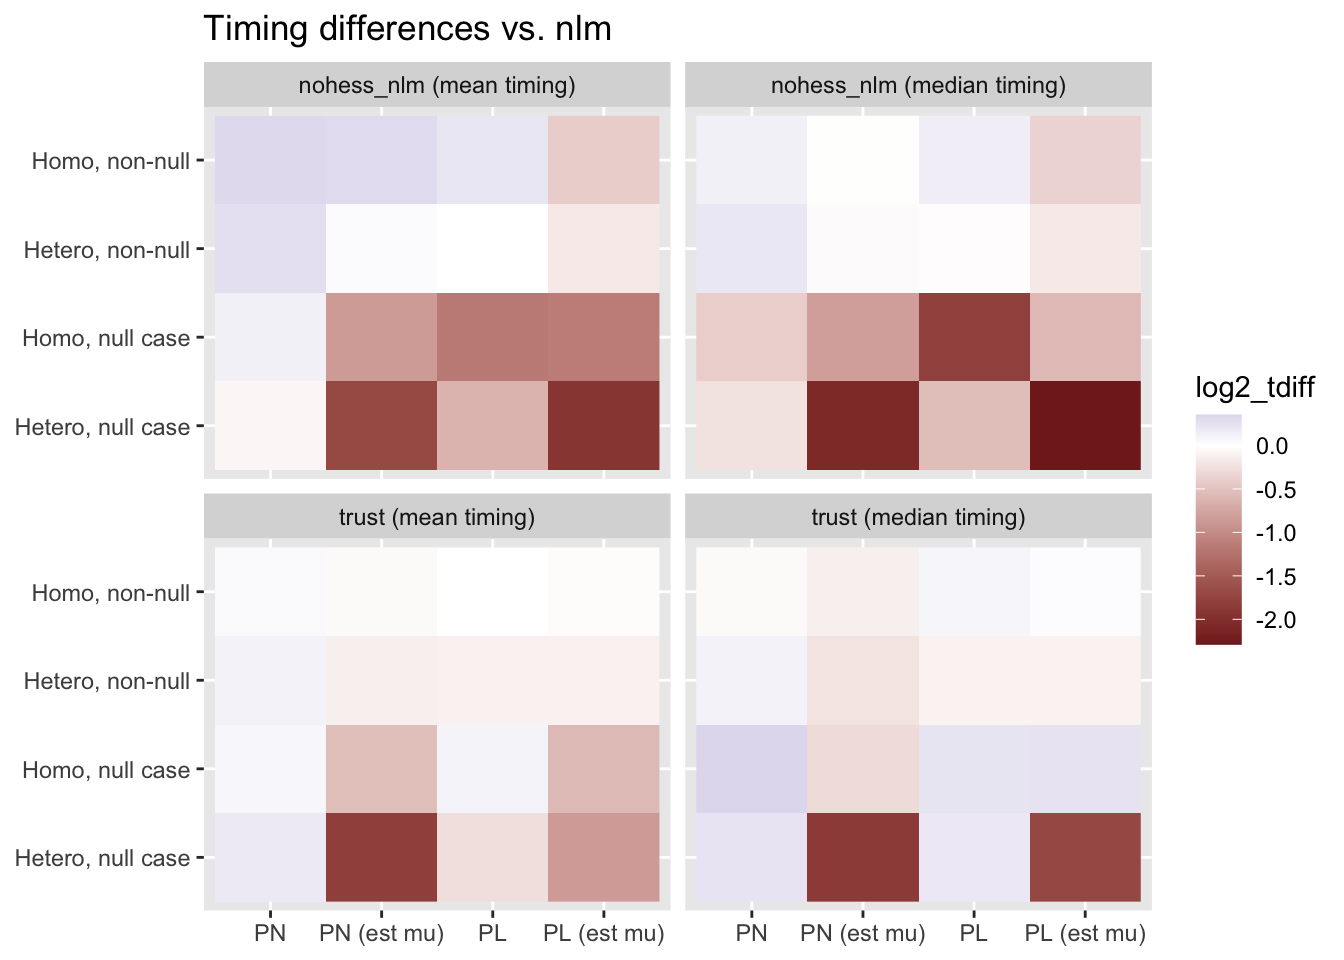
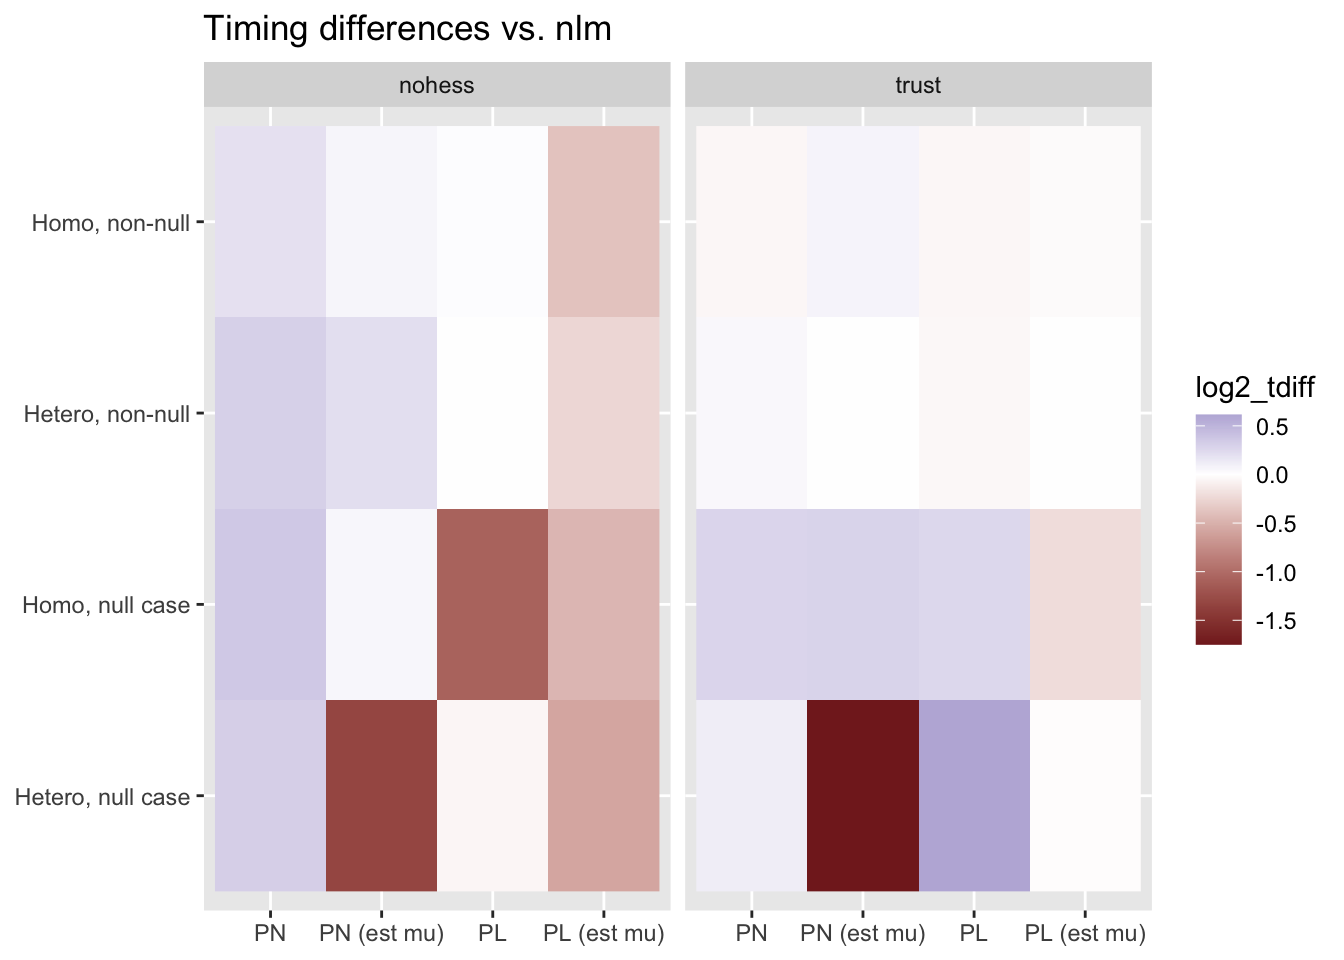
Build site.

diff --git a/docs/optmethods.html b/docs/optmethods.html
@@ -364,7 +364,7 @@ div.section {
 <div class="tab-content">
 <div id="summary" class="tab-pane fade in active">
 <p>
-<strong>Last updated:</strong> 2021-01-15
+<strong>Last updated:</strong> 2021-01-19
 </p>
 <p>
 <strong>Checks:</strong> <span class="glyphicon glyphicon-ok text-success" aria-hidden="true"></span> 6 <span class="glyphicon glyphicon-exclamation-sign text-danger" aria-hidden="true"></span> 0
@@ -443,10 +443,10 @@ This reproducible <a href="http://rmarkdown.rstudio.com">R Markdown</a> analysis
 <div class="panel panel-default">
 <div class="panel-heading">
 <p class="panel-title">
-<a data-toggle="collapse" data-parent="#workflowr-checks" href="#strongRepositoryversionstrongahrefhttpsgithubcomwillwerscheidebnmpapertreedb21fe6381d857d215fa60ada37bbe5ccc1d19bftargetblankdb21fe6a"> <span class="glyphicon glyphicon-ok text-success" aria-hidden="true"></span> <strong>Repository version:</strong> <a href="https://github.com/willwerscheid/ebnm-paper/tree/db21fe6381d857d215fa60ada37bbe5ccc1d19bf" target="_blank">db21fe6</a> </a>
+<a data-toggle="collapse" data-parent="#workflowr-checks" href="#strongRepositoryversionstrongahrefhttpsgithubcomwillwerscheidebnmpapertree69733a1ec1373fd9deb1a040cfd8e9858dc2ed33targetblank69733a1a"> <span class="glyphicon glyphicon-ok text-success" aria-hidden="true"></span> <strong>Repository version:</strong> <a href="https://github.com/willwerscheid/ebnm-paper/tree/69733a1ec1373fd9deb1a040cfd8e9858dc2ed33" target="_blank">69733a1</a> </a>
 </p>
 </div>
[2 lines of base64/hex data omitted]
 <div class="panel-body">
 <p>
 Great! You are using Git for version control. Tracking code development and connecting the code version to the results is critical for reproducibility. The version displayed above was the version of the Git repository at the time these results were generated. <br><br> Note that you need to be careful to ensure that all relevant files for the analysis have been committed to Git prior to generating the results (you can use <code>wflow_publish</code> or <code>wflow_git_commit</code>). workflowr only checks the R Markdown file, but you know if there are other scripts or data files that it depends on. Below is the status of the Git repository when the results were generated:
@@ -457,11 +457,10 @@ Ignored files:
     Ignored:    .Rproj.user/
 
 Untracked files:
-    Untracked:  analysis/ebayesthresh.Rmd
-    Untracked:  docs/figure/ebayesthresh.Rmd/
     Untracked:  sims.R
 
 Unstaged changes:
+    Modified:   analysis/ebayesthresh.Rmd
     Modified:   analysis/optmethods2.Rmd
 
 </code></pre>
@@ -501,6 +500,40 @@ Message
 </tr>
 </thead>
 <tbody>
+<tr>
+<td>
+Rmd
+</td>
+<td>
+<a href="https://github.com/willwerscheid/ebnm-paper/blob/69733a1ec1373fd9deb1a040cfd8e9858dc2ed33/analysis/optmethods.Rmd" target="_blank">69733a1</a>
+</td>
+<td>
+Jason Willwerscheid
+</td>
+<td>
+2021-01-19
+</td>
+<td>
+wflow_publish(“analysis/optmethods.Rmd”)
+</td>
+</tr>
+<tr>
+<td>
+html
+</td>
+<td>
+<a href="https://rawcdn.githack.com/willwerscheid/ebnm-paper/27cdc95ed2a60a0f8fb398fcd3c11f1f7aa81f04/docs/optmethods.html" target="_blank">27cdc95</a>
+</td>
+<td>
+Jason Willwerscheid
+</td>
+<td>
+2021-01-15
+</td>
+<td>
+Build site.
+</td>
+</tr>
 <tr>
 <td>
 Rmd
@@ -668,12 +701,14 @@ wflow_publish(“analysis/optmethods.Rmd”)
 <li>Standard errors can be identical or different</li>
 <li>The mode can be estimated or not</li>
 </ul>
-<p>I use <code>nlm</code> as the baseline and show timing differences for <code>nohess_nlm</code> and <code>trust</code>. For example, <code>log2_tdiff = 1</code> means that <code>nlm</code> is faster by a factor of 2. Thus blue squares indicate cases where <code>nlm</code> is faster and red squares indicate cases where a competing method is faster. I use <code>microbenchmark</code> with differently simulated data for each iteration, and I give comparisons using both mean and median timings.</p>
+<p>I use <code>nlm</code> as the baseline and show timing differences for <code>nohess_nlm</code> and <code>trust</code>. For example, <code>log2_tdiff = 1</code> means that <code>nlm</code> is faster by a factor of 2. Thus blue squares indicate cases where <code>nlm</code> is faster and red squares indicate cases where a competing method is faster.</p>
 <pre class="r"><code>suppressMessages(library(tidyverse))
 library(microbenchmark)
 library(ebnm)
 
-one_test &lt;- function(n, pn, null_case, homosked, est_mu, optmethod) {
+one_sim &lt;- function(n, pn, null_case, homosked, est_mu, seed) {
+  set.seed(seed)
+  
   pi0 &lt;- rbeta(1, shape1 = 10, shape2 = 2)
   scale &lt;- rgamma(1, shape = 4, rate = 1)
   
@@ -702,6 +737,14 @@ one_test &lt;- function(n, pn, null_case, homosked, est_mu, optmethod) {
   
   x &lt;- theta + rnorm(n, sd = s)
   
+  return(list(x = x, s = s))
+}
+
+one_mb &lt;- function(n, pn, null_case, homosked, est_mu, mb_times, seed) {
+  dat &lt;- one_sim(n, pn, null_case, homosked, est_mu, seed)
+  x &lt;- dat$x
+  s &lt;- dat$s
+
   if (pn) {
     ebnm_fn &lt;- ebnm_point_normal
   } else {
@@ -714,103 +757,112 @@ one_test &lt;- function(n, pn, null_case, homosked, est_mu, optmethod) {
     ebnm_mode &lt;- 0
   }
   
-  
-  if (optmethod == &quot;nlm&quot;) {
-    res &lt;- do.call(ebnm_fn, 
-                   list(x = x, s = s, mode = ebnm_mode, optmethod = &quot;nlm&quot;, 
-                        control = list(gradtol = sqrt(.Machine$double.eps), stepmax = 5)))
-  } else if (optmethod == &quot;nohess_nlm&quot;) {
-    res &lt;- do.call(ebnm_fn, 
-                   list(x = x, s = s, mode = ebnm_mode, optmethod = &quot;nohess_nlm&quot;, 
-                        control = list(gradtol = sqrt(.Machine$double.eps), stepmax = 5)))
-  } else if (optmethod == &quot;trust&quot;) {
-    res &lt;- do.call(ebnm_fn, 
-                   list(x = x, s = s, mode = ebnm_mode, optmethod = &quot;trust&quot;,
-                        control = list(fterm = sqrt(.Machine$double.eps), rmax = 5)))
-  } else {
-    stop(&quot;Invalid optmethod.&quot;)
-  }
-
-  return(res)
-}
-
-one_mb &lt;- function(n, pn, null_case, homosked, est_mu, mb_times) {
-  res &lt;- microbenchmark(
-    one_test(n, pn, null_case, homosked, est_mu, optmethod = &quot;nlm&quot;),
-    one_test(n, pn, null_case, homosked, est_mu, optmethod = &quot;nohess_nlm&quot;),
-    one_test(n, pn, null_case, homosked, est_mu, optmethod = &quot;trust&quot;),
+  mb_res &lt;- microbenchmark(
+    nlm_res &lt;- do.call(ebnm_fn, 
+                       list(x = x, s = s, mode = ebnm_mode, optmethod = &quot;nlm&quot;, 
+                            control = list(gradtol = sqrt(.Machine$double.eps)))),
+    nohess_res &lt;- do.call(ebnm_fn, 
+                          list(x = x, s = s, mode = ebnm_mode, optmethod = &quot;nohess_nlm&quot;, 
+                               control = list(gradtol = sqrt(.Machine$double.eps)))),
+    trust_res &lt;- do.call(ebnm_fn, 
+                         list(x = x, s = s, mode = ebnm_mode, optmethod = &quot;trust&quot;,
+                              control = list(fterm = sqrt(.Machine$double.eps)))),
     times = mb_times
   )
+  mb_res &lt;- summary(mb_res)
+  
+  res &lt;- list()
+  res$nohess_mean_tdiff &lt;- mb_res$mean[2] / mb_res$mean[1]
+  res$nohess_median_tdiff &lt;- mb_res$median[2] / mb_res$median[1]
+  res$trust_mean_tdiff &lt;- mb_res$mean[3] / mb_res$mean[1]
+  res$trust_median_tdiff &lt;- mb_res$median[3] / mb_res$median[1]
   
   return(res)
 }
 
-one_n &lt;- function(n, mb_times) {
-  optmethods &lt;- c(&quot;nlm&quot;, &quot;nohess_nlm&quot;, &quot;trust&quot;)
-  
+one_n &lt;- function(n, mb_times, seeds) {
   all_res &lt;- tibble()
   
-  for (pn in c(TRUE, FALSE)) {
-    for (null_case in c(TRUE, FALSE)) {
-      for (homosked in c(TRUE, FALSE)) {
-        for (est_mu in c(TRUE, FALSE)) {
-          mb_res &lt;- summary(one_mb(n, pn, null_case, homosked, est_mu, mb_times), 
-                            unit = &quot;s&quot;)
-          
-          means &lt;- tibble(n = n, pn = pn, null_case = null_case, 
-                          homosked = homosked, est_mu = est_mu, sumstat = &quot;mean&quot;, 
-                          optmethod = optmethods, t = mb_res$mean)
-          medians &lt;- tibble(n = n, pn = pn, null_case = null_case, 
-                            homosked = homosked, est_mu = est_mu, sumstat = &quot;median&quot;, 
-                            optmethod = optmethods, t = mb_res$median)
-          
-          all_res &lt;- all_res %&gt;%
-            bind_rows(means) %&gt;%
-            bind_rows(medians)
+  for (seed in seeds) {
+    for (pn in c(TRUE, FALSE)) {
+      for (null_case in c(TRUE, FALSE)) {
+        for (homosked in c(TRUE, FALSE)) {
+          for (est_mu in c(TRUE, FALSE)) {
+            mb_res &lt;- one_mb(n, pn, null_case, homosked, est_mu, mb_times, seed)
+            
+            all_res &lt;- all_res %&gt;%
+              bind_rows(tibble(seed = seed, n = n, pn = pn, null_case = null_case, 
+                               homosked = homosked, est_mu = est_mu,
+                               optmethod = &quot;nohess&quot;, 
+                               mean_tdiff = mb_res$nohess_mean_tdiff, 
+                               median_tdiff = mb_res$nohess_median_tdiff)) %&gt;%
+              bind_rows(tibble(seed = seed, n = n, pn = pn, null_case = null_case, 
+                               homosked = homosked, est_mu = est_mu,
+                               optmethod = &quot;trust&quot;, 
+                               mean_tdiff = mb_res$trust_mean_tdiff, 
+                               median_tdiff = mb_res$trust_median_tdiff))
+          }
         }
       }
     }
   }
-  
-  all_res &lt;- all_res %&gt;%
-    group_by(n, pn, null_case, homosked, est_mu, sumstat) %&gt;%
-    summarize(trust = max(ifelse(optmethod == &quot;trust&quot;, t, 0)) /
-                max(ifelse(optmethod == &quot;nlm&quot;, t, 0)),
-              nohess_nlm = max(ifelse(optmethod == &quot;nohess_nlm&quot;, t, 0)) /
-                max(ifelse(optmethod == &quot;nlm&quot;, t, 0)),
-              .groups = &#39;drop&#39;)
-  
-  all_res &lt;- all_res %&gt;%
-    gather(&quot;comparison_method&quot;, &quot;tdiff&quot;, trust, nohess_nlm)
-  
+
   return(all_res)
 }
 
 plot_one_n &lt;- function(res) {
-  res &lt;- res %&gt;%
+  df &lt;- res %&gt;%
+    group_by(n, pn, null_case, homosked, est_mu, optmethod) %&gt;%
+    summarize(log2_tdiff = log2(mean(mean_tdiff)), .groups = &#39;drop&#39;) %&gt;%
     mutate(x = factor(paste0(ifelse(pn, &quot;PN&quot;, &quot;PL&quot;), ifelse(est_mu, &quot; (est mu)&quot;, &quot;&quot;))),
            y = factor(paste0(ifelse(homosked, &quot;Homo, &quot;, &quot;Hetero, &quot;),
-                             ifelse(null_case, &quot;null case&quot;, &quot;non-null&quot;))),
-           facet = paste0(comparison_method, &quot; (&quot;, sumstat, &quot; timing)&quot;)) %&gt;%
+                             ifelse(null_case, &quot;null case&quot;, &quot;non-null&quot;)))) %&gt;%
     mutate(x = fct_relevel(x, &quot;PN&quot;, &quot;PN (est mu)&quot;, &quot;PL&quot;, &quot;PL (est mu)&quot;),
            y = fct_relevel(y, &quot;Hetero, null case&quot;, &quot;Homo, null case&quot;, 
-                           &quot;Hetero, non-null&quot;, &quot;Homo, non-null&quot;)) %&gt;%
-    mutate(log2_tdiff = log2(tdiff))
+                           &quot;Hetero, non-null&quot;, &quot;Homo, non-null&quot;))
   
-  plt &lt;- ggplot(res, aes(x = x, y = y)) + 
+  plt &lt;- ggplot(df, aes(x = x, y = y)) + 
     geom_raster(aes(fill = log2_tdiff)) +
     scale_fill_gradient2(midpoint = 0) +
     labs(x = NULL, y = NULL) +
-    facet_wrap(~facet) +
+    facet_wrap(~optmethod) +
     ggtitle(&quot;Timing differences vs. nlm&quot;)
   
   return(plt)
 }
 
-set.seed(666)</code></pre>
+# one_plot &lt;- function(res, plot_pn, plot_est_mu) {
+#   df &lt;- res %&gt;%
+#     filter(pn == plot_pn, est_mu == plot_est_mu)
+#   
+#   df &lt;- df %&gt;%
+#     mutate(log2_tdiff = log2(mean_tdiff)) %&gt;%
+#     mutate(x = paste0(ifelse(null_case, &quot;null&quot;, &quot;nonnull&quot;), &quot;, &quot;, 
+#                       ifelse(homosked, &quot;homo&quot;, &quot;het&quot;))) %&gt;%
+#     mutate(x = fct_relevel(x, &quot;null, homo&quot;, &quot;null, het&quot;, &quot;nonnull, homo&quot;, &quot;nonnull, het&quot;))
+# 
+#   plot(ggplot(df, aes(x = x, y = log2_tdiff)) +
+#          geom_boxplot() + 
+#          geom_jitter(width = 0.3) +
+#          labs(x = NULL, y = NULL) +
+#          geom_hline(aes(yintercept = 0), linetype = &quot;dashed&quot;) + 
+#          ggtitle(paste0(&quot;log2 difference in timing vs. nlm: &quot;,
+#                         ifelse(plot_pn, &quot;point-normal&quot;, &quot;point-Laplace&quot;), &quot;, &quot;,
+#                         ifelse(plot_est_mu, &quot;estimate mu&quot;, &quot;fix mu&quot;))) +
+#          facet_wrap(~optmethod))
+# }
+# 
+# plot_one_n &lt;- function(res) {
+#   for (pn in c(TRUE, FALSE)) {
+#     for (est_mu in c(FALSE, TRUE)) {
+#       one_plot(res, pn, est_mu)
+#     }
+#   }
+# }</code></pre>
 <div id="n-1000" class="section level2">
 <h2><span class="math inline">\(n = 1000\)</span></h2>
-<pre class="r"><code>plot_one_n(one_n(1000, mb_times = 100L))</code></pre>
+<pre class="r"><code>res1000 &lt;- one_n(1000, mb_times = 20L, seeds = 1:20)
+plot_one_n(res1000)</code></pre>
 <p><img src="figure/optmethods.Rmd/n1000-1.png" width="672" style="display: block; margin: auto;" /></p>
 <p>
 <button type="button" class="btn btn-default btn-xs btn-workflowr btn-workflowr-fig" data-toggle="collapse" data-target="#fig-n1000-1">
@@ -834,6 +886,17 @@ Date
 </tr>
 </thead>
 <tbody>
+<tr>
+<td>
+<a href="https://github.com/willwerscheid/ebnm-paper/blob/27cdc95ed2a60a0f8fb398fcd3c11f1f7aa81f04/docs/figure/optmethods.Rmd/n1000-1.png" target="_blank">27cdc95</a>
+</td>
+<td>
+Jason Willwerscheid
+</td>
+<td>
+2021-01-15
+</td>
+</tr>
 <tr>
 <td>
 <a href="https://github.com/willwerscheid/ebnm-paper/blob/b1ae432faf37ca0174ea03cd06f75a2c951b550b/docs/figure/optmethods.Rmd/n1000-1.png" target="_blank">b1ae432</a>
@@ -885,7 +948,8 @@ Jason Willwerscheid
 </div>
 <div id="n-10000" class="section level2">
 <h2><span class="math inline">\(n = 10000\)</span></h2>
-<pre class="r"><code>plot_one_n(one_n(10000, mb_times = 100L))</code></pre>
+<pre class="r"><code>res10000 &lt;- one_n(10000, mb_times = 10L, seeds = 1:20)
+plot_one_n(res10000)</code></pre>
 <p><img src="figure/optmethods.Rmd/n10000-1.png" width="672" style="display: block; margin: auto;" /></p>
 <p>
 <button type="button" class="btn btn-default btn-xs btn-workflowr btn-workflowr-fig" data-toggle="collapse" data-target="#fig-n10000-1">
@@ -909,6 +973,17 @@ Date
 </tr>
 </thead>
 <tbody>
+<tr>
+<td>
+<a href="https://github.com/willwerscheid/ebnm-paper/blob/27cdc95ed2a60a0f8fb398fcd3c11f1f7aa81f04/docs/figure/optmethods.Rmd/n10000-1.png" target="_blank">27cdc95</a>
+</td>
+<td>
+Jason Willwerscheid
+</td>
+<td>
+2021-01-15
+</td>
+</tr>
 <tr>
 <td>
 <a href="https://github.com/willwerscheid/ebnm-paper/blob/b1ae432faf37ca0174ea03cd06f75a2c951b550b/docs/figure/optmethods.Rmd/n10000-1.png" target="_blank">b1ae432</a>
@@ -960,7 +1035,8 @@ Jason Willwerscheid
 </div>
 <div id="n-100000" class="section level2">
 <h2><span class="math inline">\(n = 100000\)</span></h2>
-<pre class="r"><code>plot_one_n(one_n(100000, mb_times = 50L))</code></pre>
+<pre class="r"><code>res100000 &lt;- one_n(100000, mb_times = 5L, seeds = 1:20)
+plot_one_n(res100000)</code></pre>
 <p><img src="figure/optmethods.Rmd/n100000-1.png" width="672" style="display: block; margin: auto;" /></p>
 <p>
 <button type="button" class="btn btn-default btn-xs btn-workflowr btn-workflowr-fig" data-toggle="collapse" data-target="#fig-n100000-1">
@@ -984,6 +1060,17 @@ Date
 </tr>
 </thead>
 <tbody>
+<tr>
+<td>
+<a href="https://github.com/willwerscheid/ebnm-paper/blob/27cdc95ed2a60a0f8fb398fcd3c11f1f7aa81f04/docs/figure/optmethods.Rmd/n100000-1.png" target="_blank">27cdc95</a>
+</td>
+<td>
+Jason Willwerscheid
+</td>
+<td>
+2021-01-15
+</td>
+</tr>
 <tr>
 <td>
 <a href="https://github.com/willwerscheid/ebnm-paper/blob/b1ae432faf37ca0174ea03cd06f75a2c951b550b/docs/figure/optmethods.Rmd/n100000-1.png" target="_blank">b1ae432</a>
@@ -1055,9 +1142,9 @@ Jason Willwerscheid
 #&gt; [1] stats     graphics  grDevices utils     datasets  methods   base     
 #&gt; 
 #&gt; other attached packages:
-#&gt;  [1] ebnm_0.1-31          microbenchmark_1.4-7 forcats_0.4.0        stringr_1.4.0       
+#&gt;  [1] ebnm_0.1-32          microbenchmark_1.4-7 forcats_0.4.0        stringr_1.4.0       
 #&gt;  [5] dplyr_1.0.2          purrr_0.3.4          readr_1.3.1          tidyr_1.1.2         
-#&gt;  [9] tibble_3.0.4         ggplot2_3.3.3        tidyverse_1.3.0     
+#&gt;  [9] tibble_3.0.4         ggplot2_3.3.3        tidyverse_1.3.0      workflowr_1.2.0     
 #&gt; 
 #&gt; loaded via a namespace (and not attached):
 #&gt;  [1] Rcpp_1.0.4.6      lubridate_1.7.4   invgamma_1.1      lattice_0.20-38   assertthat_0.2.1 
@@ -1066,10 +1153,10 @@ Jason Willwerscheid
 #&gt; [16] rlang_0.4.10      readxl_1.3.1      rstudioapi_0.10   irlba_2.3.3       whisker_0.3-2    
 #&gt; [21] Matrix_1.2-15     rmarkdown_1.12    labeling_0.3      munsell_0.5.0     mixsqp_0.3-40    
 #&gt; [26] broom_0.7.3       compiler_3.5.3    modelr_0.1.5      xfun_0.6          pkgconfig_2.0.2  
-#&gt; [31] SQUAREM_2017.10-1 htmltools_0.3.6   tidyselect_1.1.0  workflowr_1.2.0   crayon_1.3.4     
-#&gt; [36] dbplyr_1.4.2      withr_2.1.2       grid_3.5.3        jsonlite_1.6      gtable_0.3.0     
+#&gt; [31] SQUAREM_2017.10-1 htmltools_0.3.6   tidyselect_1.1.0  fansi_0.4.0       crayon_1.3.4     
+#&gt; [36] dbplyr_1.4.2      withr_2.4.0       grid_3.5.3        jsonlite_1.6      gtable_0.3.0     
 #&gt; [41] lifecycle_0.2.0   DBI_1.0.0         git2r_0.25.2      magrittr_1.5      scales_1.0.0     
-#&gt; [46] cli_1.1.0         stringi_1.4.3     fs_1.2.7          xml2_1.2.5        ellipsis_0.3.0   
+#&gt; [46] cli_2.2.0         stringi_1.4.3     fs_1.2.7          xml2_1.2.5        ellipsis_0.3.0   
 #&gt; [51] generics_0.0.2    vctrs_0.3.6       trust_0.1-8       tools_3.5.3       glue_1.4.2       
 #&gt; [56] hms_0.5.3         yaml_2.2.0        colorspace_1.4-1  ashr_2.2-51       rvest_0.3.6      
 #&gt; [61] knitr_1.22        haven_2.3.1</code></pre>
